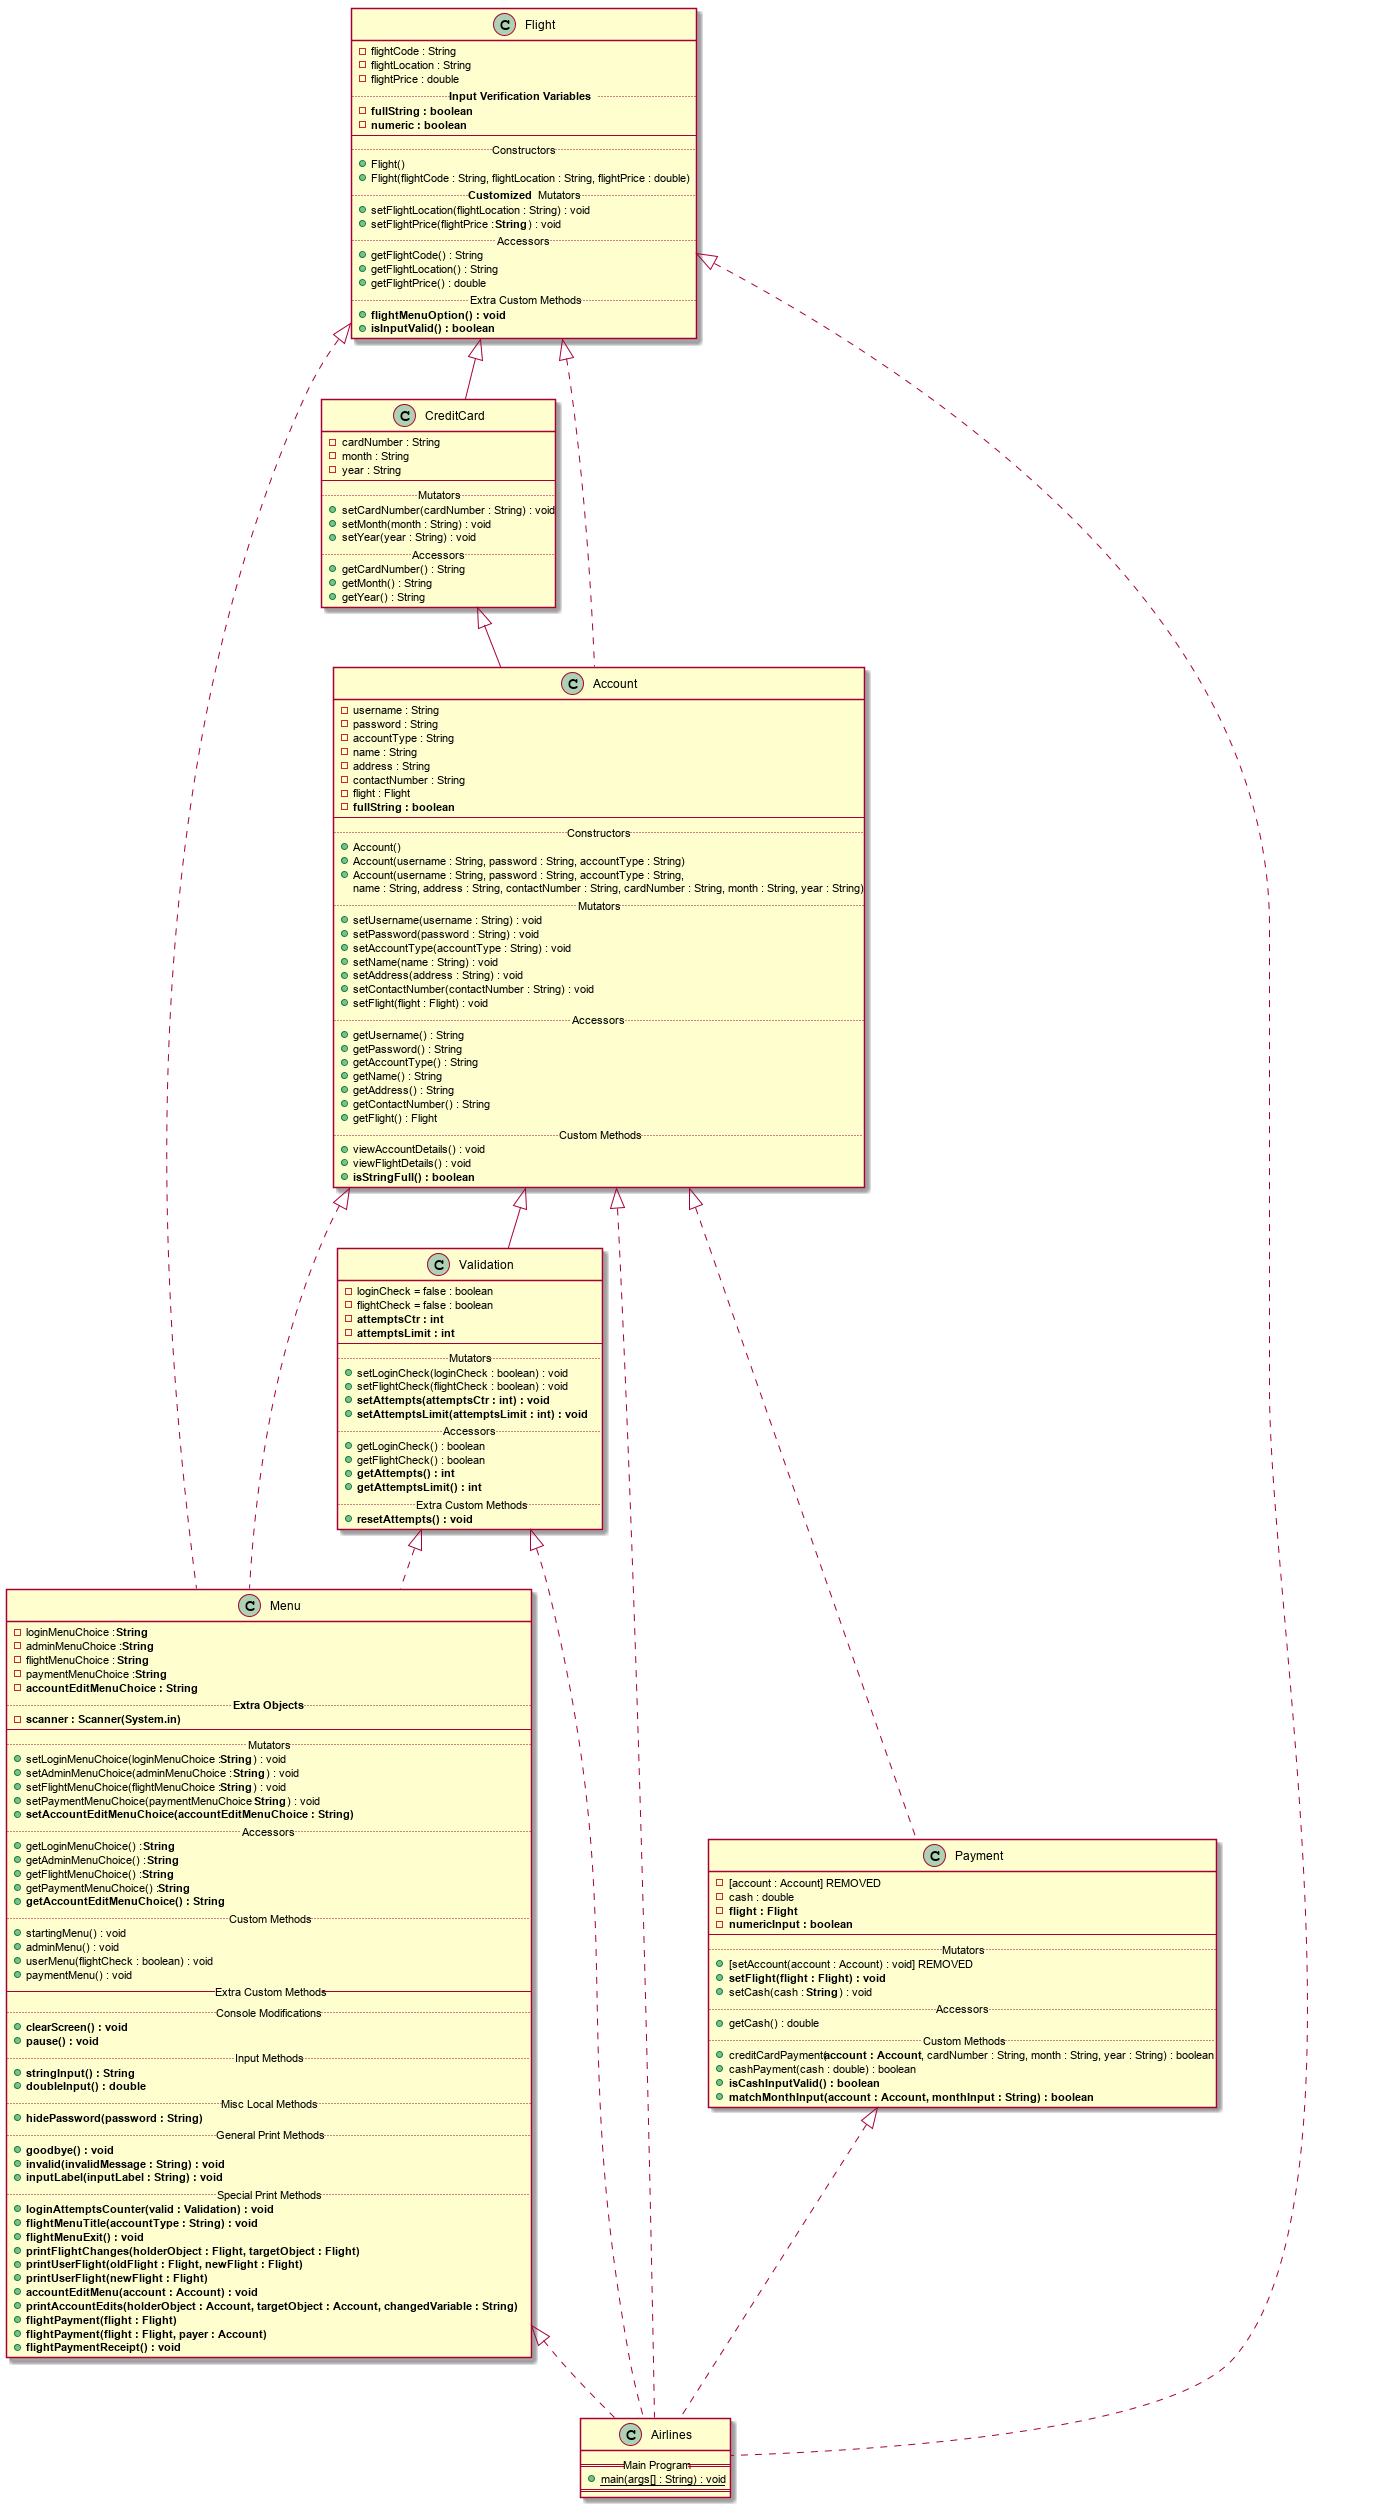
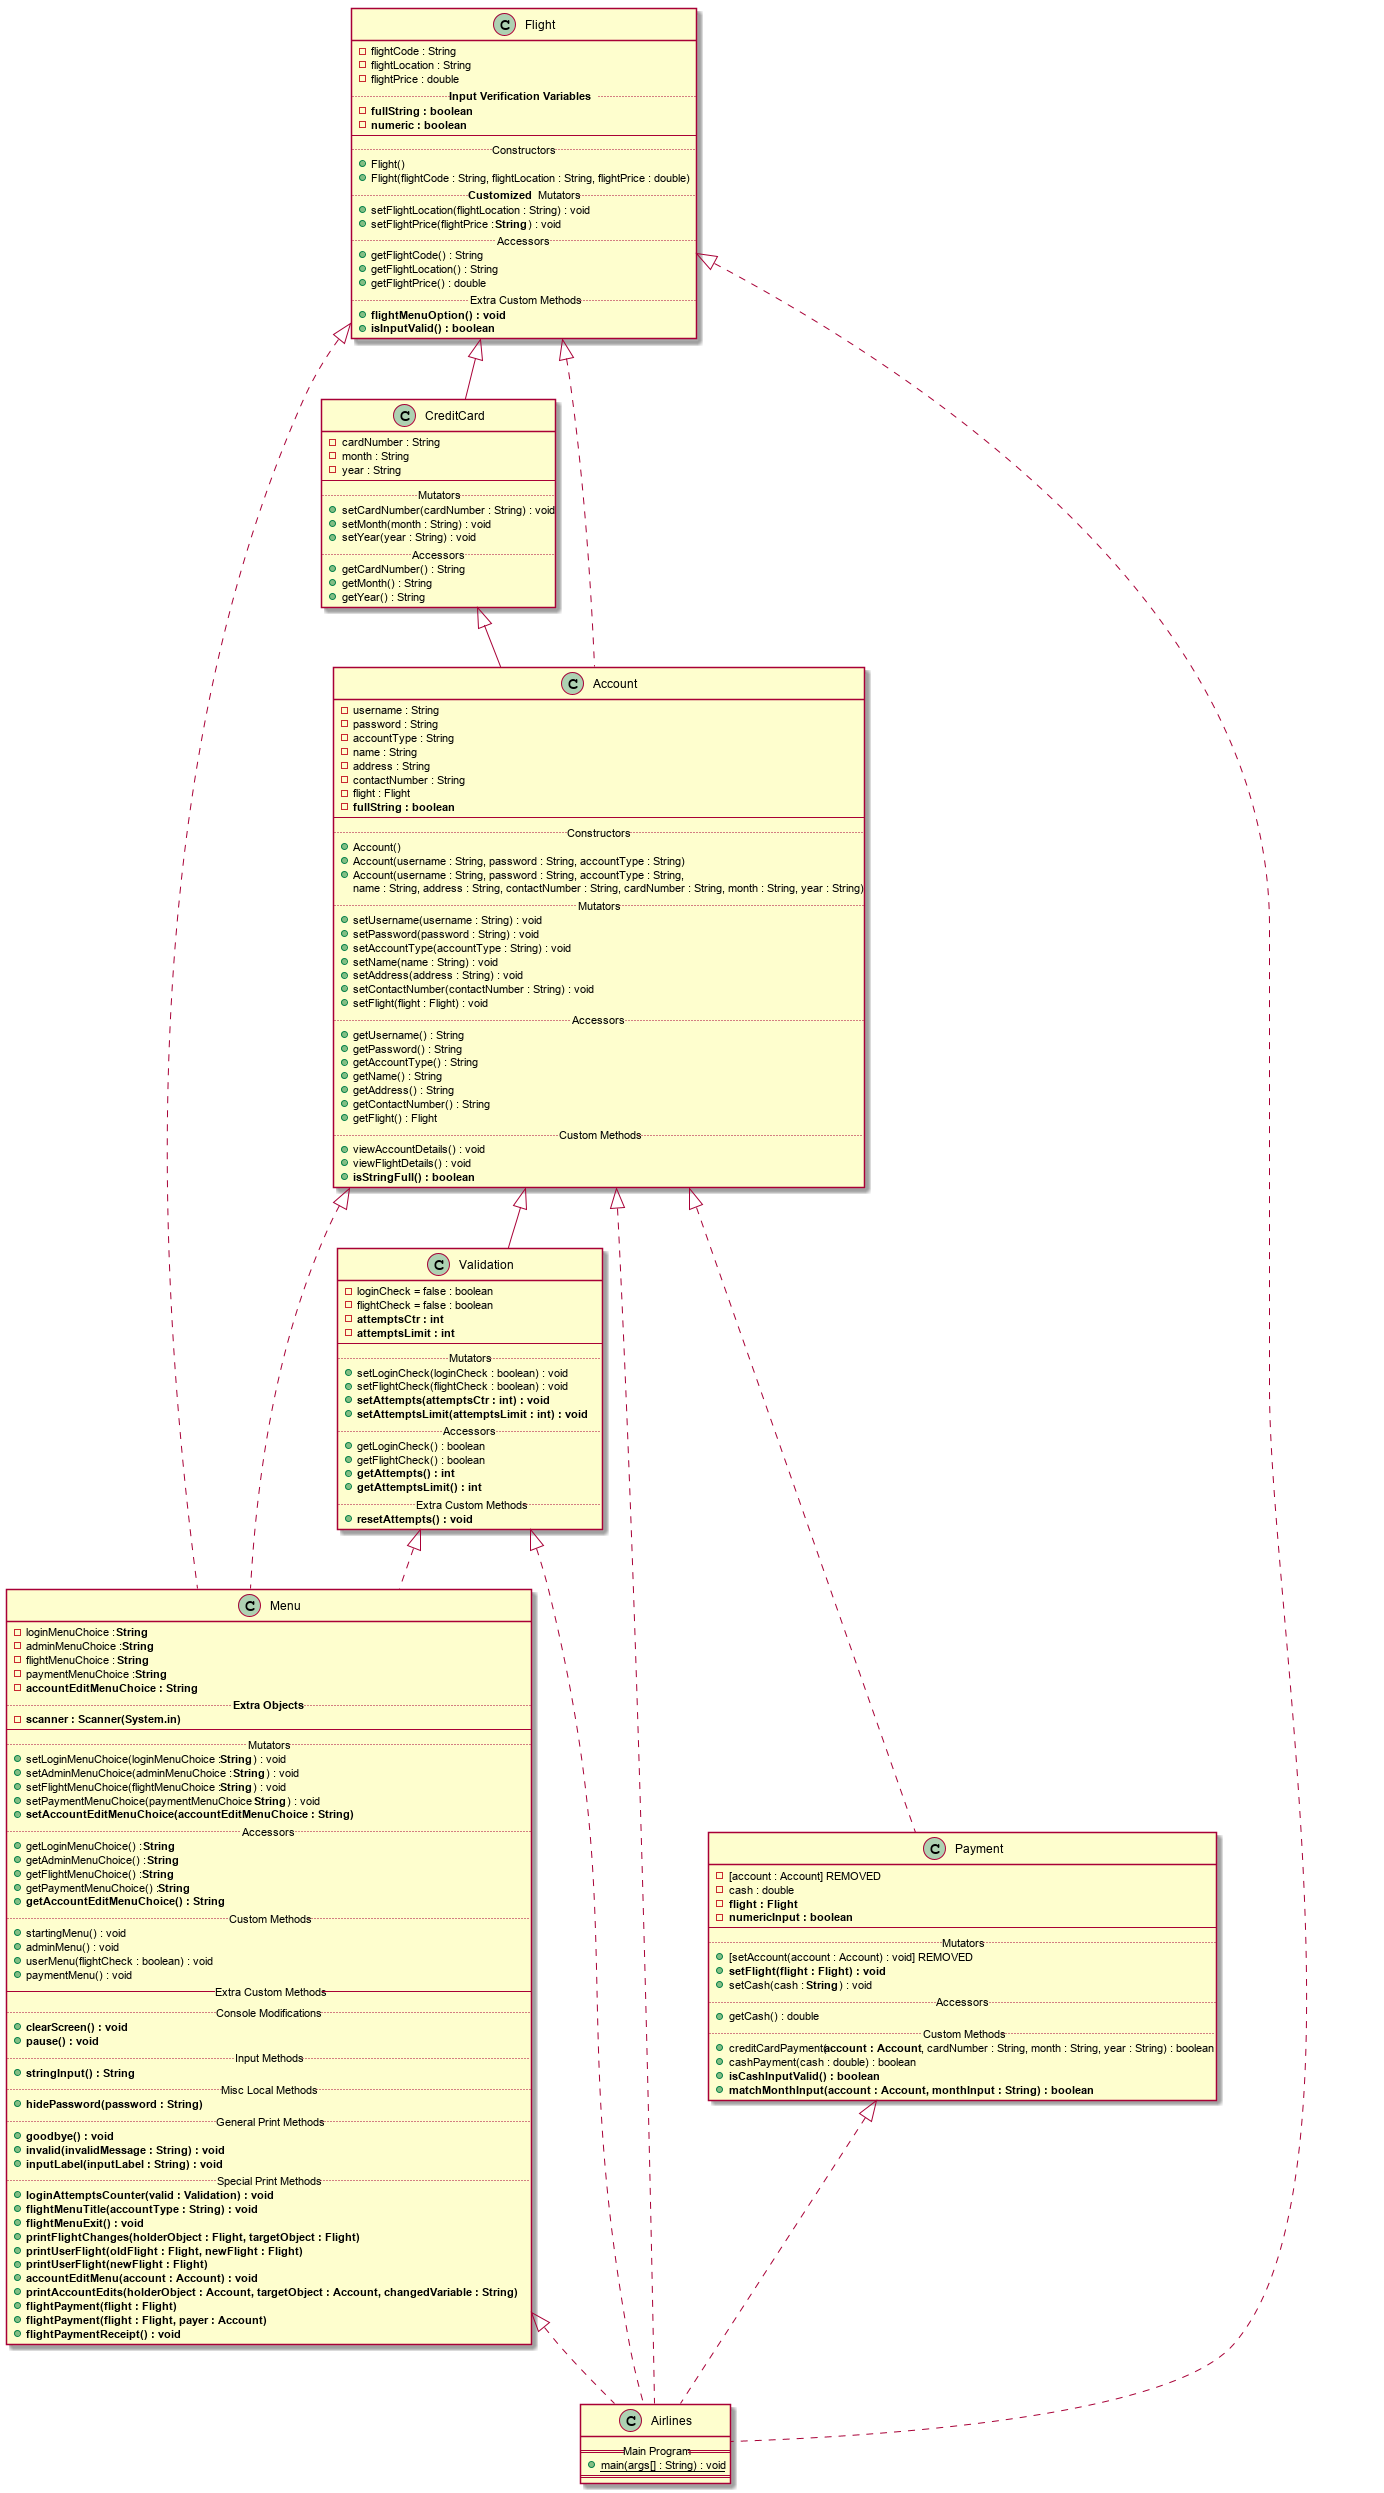
card payment works now. yeee. flowchart time.

diff --git a/Java Projects/Grade 11/DeGuzmanIAN-Llantos_JavaAirlines/Payment.java b/Java Projects/Grade 11/DeGuzmanIAN-Llantos_JavaAirlines/Payment.java
@@ -1,3 +1,4 @@
+import java.util.Arrays;
 public class Payment
 {
     private Flight flight;
@@ -35,12 +36,11 @@ public class Payment
         return this.cash;
     }
 
-    public boolean matchMonthInput(Account account,String monthInput)
+    public boolean matchMonthInput(Account account,String input)
     {
-        boolean cardMonthMatch = false;
-        boolean inputMonthMatch = false;
-        int inputMatchIndex = 12;
-        int cardMatchIndex = 12;
+        String monthInput = input.trim().toLowerCase();
+        int inputMatchIndex = 69;
+        int cardMatchIndex = 6969;
 
         String monthFullWord[] = {
             "january", "february", "march", 
@@ -65,43 +65,54 @@ public class Payment
         };
 
         // Find the index of the card
-        for (int i = 0; cardMonthMatch == false && i < monthNumA.length; i++) 
-        {
-            if(
-                account.getMonth() == monthNumA[i] ||
-                account.getMonth() == monthNumB[i] ||
-                account.getMonth().toLowerCase() == monthFullWord[i] ||
-                account.getMonth().toLowerCase() == monthShortenedWord[i]
-            ){
-                cardMonthMatch = true;
-                cardMatchIndex = i;
+
+            if(Arrays.asList(monthFullWord).contains(account.getMonth()))
+            {
+                cardMatchIndex = Arrays.asList(monthFullWord).indexOf(account.getMonth());
             }
-        }
+            else if(Arrays.asList(monthShortenedWord).contains(account.getMonth()))
+            {
+                cardMatchIndex = Arrays.asList(monthShortenedWord).indexOf(account.getMonth());
+            }
+            else if(Arrays.asList(monthNumA).contains(account.getMonth()))
+            {
+                cardMatchIndex = Arrays.asList(monthNumA).indexOf(account.getMonth());
+            }
+            else if(Arrays.asList(monthNumB).contains(account.getMonth()))
+            {
+                cardMatchIndex = Arrays.asList(monthNumB).indexOf(account.getMonth());
+            }
+            else
+            {
+                cardMatchIndex = 13;
+            }
+
+        //
 
         // Find the index of the input month
-        for (int i = 0; inputMonthMatch == false && i < monthNumA.length; i++) 
-        {
-            if(monthInput.trim() == monthNumA[i])
+        
+            if(Arrays.asList(monthFullWord).contains(monthInput))
             {
-                inputMonthMatch = true;
-                inputMatchIndex = i;
+                inputMatchIndex = Arrays.asList(monthFullWord).indexOf(monthInput);
             }
-            else if(monthInput.trim() == monthNumB[i])
+            else if(Arrays.asList(monthShortenedWord).contains(monthInput))
             {
-                inputMonthMatch = true;
-                inputMatchIndex = i;
+                inputMatchIndex = Arrays.asList(monthShortenedWord).indexOf(monthInput);
             }
-            else if(monthInput.trim().toLowerCase() == monthFullWord[i])
+            else if(Arrays.asList(monthNumA).contains(monthInput))
             {
-                inputMonthMatch = true;
-                inputMatchIndex = i;
+                inputMatchIndex = Arrays.asList(monthNumA).indexOf(monthInput);
             }
-            else if(monthInput.trim().toLowerCase() == monthShortenedWord[i])
+            else if(Arrays.asList(monthNumB).contains(monthInput))
             {
-                inputMonthMatch = true;
-                inputMatchIndex = i;
+                inputMatchIndex = Arrays.asList(monthNumB).indexOf(monthInput);
             }
-        }
+            else
+            {
+                inputMatchIndex = 12;
+            }
+        
+        //
 
         // True or False : Input month = Card month?
         return (inputMatchIndex == cardMatchIndex);

diff --git a/Java Projects/Grade 11/DeGuzmanIAN-Llantos_JavaAirlines/Menu.java b/Java Projects/Grade 11/DeGuzmanIAN-Llantos_JavaAirlines/Menu.java
@@ -141,11 +141,6 @@ public class Menu
             return scanner.nextLine();
         }
 
-        public double doubleInput()
-        {
-            return Double.parseDouble(scanner.nextLine());
-        }
-
     //
 
     // Misc Special Methods

diff --git a/Java Projects/Grade 11/DeGuzmanIAN-Llantos_JavaAirlines/Descriptions-Diagrams/ClassDiagrams.md b/Java Projects/Grade 11/DeGuzmanIAN-Llantos_JavaAirlines/Descriptions-Diagrams/ClassDiagrams.md
@@ -32,7 +32,6 @@ class Menu
     +**pause() : void**
     ..Input Methods..
     +**stringInput() : String**
-    +**doubleInput() : double**
     ..Misc Local Methods..
     +**hidePassword(password : String)**
     ..General Print Methods..
